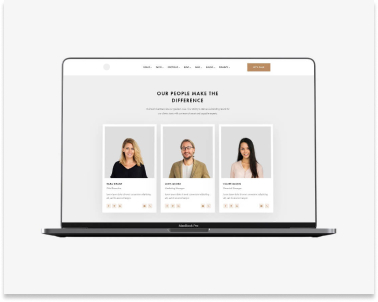
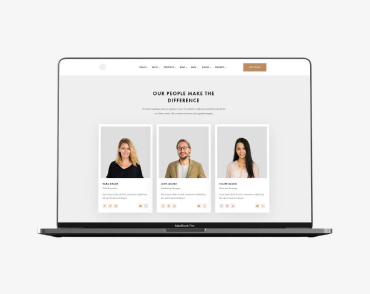
Добавляет позиционирование и геометрию всей разметке

diff --git a/portfolio.html b/portfolio.html
@@ -16,7 +16,7 @@
     
                 <ul class="navigation decoration">
                     <li class="item"><a href="/" class="link accent">Студия</a></li>
-                    <li class="item"><a href="" class="link accent">Портфолио</a></li>
+                    <li class="item"><a href="./portfolio.html" class="link accent">Портфолио</a></li>
                     <li class="item"><a href="" class="link accent">Контакты</a></li>
                 </ul>   
                 <address class="contacts">
@@ -27,90 +27,112 @@
         </div>
     </header>
     <main>
-        <section>
+        <section class="portfolio">
             <!-- Заголовок потом будет скрыт в css -->
-            <h1>Наши работы</h1>
-            <ul class="filter decoration">
-                <li><button type="button">Все</button></li>
-                <li><button type="button">Веб-сайты</button></li>
-                <li><button type="button">Приложения</button></li>
-                <li><button type="button">Дизайн</button></li>
-                <li><button type="button">Маркетинг</button></li>
-            </ul>
-            <ul class="works decoration">
-                <li>
-                    <a href="">
-                        <img src="./images/project1.jpg" alt="Веб-сайт технокряк" width="370">
-                        <h3 class="title">Технокряк</h3>
-                        <p class="text">Веб-сайт</p>
-                    </a>
-                </li>
-                <li>
-                    <a href="">
-                        <img src="./images/project2.jpg" alt="Дизайн постер New Orlean vs Golden Star" width="370">
-                        <h3 class="title">Постер New Orlean vs Golden Star</h3>
-                        <p class="text">Дизайн</p>
-                    </a>
-                </li>
-                <li>
-                    <a href="">
-                        <img src="./images/project3.jpg" alt="Приложение Рресторана Seafood" width="370">
-                        <h3 class="title">Ресторан Seafood</h3>
-                        <p class="text">Приложение</p>
-                    </a>
-                </li>
-                <li>
-                    <a href="">
-                        <img src="./images/project4.jpg" alt="Проект Prime" width="370">
-                        <h3 class="title">Проект Prime</h3>
-                        <p class="text">Маркетинг</p>
-                    </a>
-                </li>
-                <li>
-                    <a href="">
-                        <img src="./images/project5.jpg" alt="Приложение проекта Boxes" width="370">
-                        <h3 class="title">Проект Boxes</h3>
-                        <p class="text">Приложение</p>
-                    </a>
-                </li>
-                <li>
-                    <a href="">
-                        <img src="./images/project6.jpg" alt="Веб-сайт Inspiration has no Borders" width="370">
-                        <h3 class="title">Inspiration has no Borders</h3>
-                        <p class="text">Веб-сайт</p>
-                    </a>
-                </li>
-                <li>
-                    <a href="">
-                        <img src="./images/project7.jpg" alt="Дизайн издания Limited Edition" width="370">
-                        <h3 class="title">Издание Limited Edition</h3>
-                        <p class="text">Дизайн</p>
-                    </a>
-                </li>
-                <li>
-                    <a href="">
-                        <img src="./images/project8.jpg" alt="Проект LAB" width="370">
-                        <h3 class="title">Проект LAB</h3>
-                        <p class="text">Маркетинг</p>
-                    </a>
-                </li>
-                <li>
-                    <a href="">
-                        <img src="./images/project9.jpg" alt="Приложение Growing Business" width="370">
-                        <h3 class="title">Growing Business</h3>
-                        <p class="text">Приложение</p>
-                    </a>
-                </li>
-            </ul>
+            <div class="container">
+                <h1 class="portfolio-title">Наши работы</h1>
+                <ul class="filter decoration">
+                    <li class="item"><button type="button">Все</button></li>
+                    <li class="item"><button type="button">Веб-сайты</button></li>
+                    <li class="item"><button type="button">Приложения</button></li>
+                    <li class="item"><button type="button">Дизайн</button></li>
+                    <li class="item"><button type="button">Маркетинг</button></li>
+                </ul>
+                <ul class="works decoration">
+                    <li class="works-item">
+                        <a href="">
+                            <img src="./images/project1.jpg" alt="Веб-сайт технокряк" width="370">
+                            <div class="work-desc">
+                                <h3 class="title">Технокряк</h3>
+                                <p class="text">Веб-сайт</p>
+                            </div>    
+                        </a>
+                    </li>
+                    <li class="works-item">
+                        <a href="">
+                            <img src="./images/project2.jpg" alt="Дизайн постер New Orlean vs Golden Star" width="370">
+                            <div class="work-desc">
+                                <h3 class="title">Постер New Orlean vs Golden Star</h3>
+                                <p class="text">Дизайн</p>
+                            </div>
+                        </a>
+                    </li>
+                    <li class="works-item">
+                        <a href="">
+                            <img src="./images/project3.jpg" alt="Приложение Рресторана Seafood" width="370">
+                            <div class="work-desc">
+                                <h3 class="title">Ресторан Seafood</h3>
+                                <p class="text">Приложение</p>
+                            </div>
+                        </a>
+                    </li>
+                    <li class="works-item">
+                        <a href="">
+                            <img src="./images/project4.jpg" alt="Проект Prime" width="370">
+                            <div class="work-desc">
+                                <h3 class="title">Проект Prime</h3>
+                                <p class="text">Маркетинг</p>
+                            </div>
+                        </a>
+                    </li>
+                    <li class="works-item">
+                        <a href="">
+                            <img src="./images/project5.jpg" alt="Приложение проекта Boxes" width="370">
+                            <div class="work-desc">
+                                <h3 class="title">Проект Boxes</h3>
+                                <p class="text">Приложение</p>
+                            </div>
+                        </a>
+                    </li>
+                    <li class="works-item">
+                        <a href="">
+                            <img src="./images/project6.jpg" alt="Веб-сайт Inspiration has no Borders" width="370">
+                            <div class="work-desc">
+                                <h3 class="title">Inspiration has no Borders</h3>
+                                <p class="text">Веб-сайт</p>
+                            </div>
+                        </a>
+                    </li>
+                    <li class="works-item">
+                        <a href="">
+                            <img src="./images/project7.jpg" alt="Дизайн издания Limited Edition" width="370">
+                            <div class="work-desc">
+                                <h3 class="title">Издание Limited Edition</h3>
+                                <p class="text">Дизайн</p>
+                            </div>
+                        </a>
+                    </li>
+                    <li class="works-item">
+                        <a href="">
+                            <img src="./images/project8.jpg" alt="Проект LAB" width="370">
+                            <div class="work-desc">
+                                <h3 class="title">Проект LAB</h3>
+                                <p class="text">Маркетинг</p>
+                            </div>
+                        </a>
+                    </li>
+                    <li class="works-item">
+                        <a href="">
+                            <img src="./images/project9.jpg" alt="Приложение Growing Business" width="370">
+                            <div class="work-desc">
+                                <h3 class="title">Growing Business</h3>
+                                <p class="text">Приложение</p>
+                            </div>
+                        </a>
+                    </li>
+                </ul>
+            </div>
         </section>
     </main>
     <footer class="footer">
-        <a href="./index.html" class="logo inversion"><span>Web</span>Studio</a>
-        <address class="direction">
-            г. Киев, пр-т Леси Украинки, 26 <br>
-            <a href="mailto:info@example.com" class="link item">info@example.com</a>
-            <a href="tel:+380991111111" class="link item">+38 099 111 11 11</a>
-          </address>
+        <div class="container">
+            <a href="/" class="logo inversion"><span>Web</span>Studio</a>
+            <address class="direction">
+                г. Киев, пр-т Леси Украинки, 26 <br>
+                <a href="mailto:info@example.com" class="link item">info@example.com</a>
+                <a href="tel:+380991111111" class="link item">+38 099 111 11 11</a>
+            </address>
+        </div>
     </footer>
 </body>
 </html>

diff --git a/css/styles.css b/css/styles.css
@@ -21,9 +21,15 @@ body {
     font-family: 'Roboto', sans-serif;
     font-weight: 400;
     font-size: 14px;
-    line-height: 1.71;
+    line-height: 1.7;
     letter-spacing: 0.03em;
     color: var(--primary-text-color);
+}
+
+img {
+    display: block;
+    width: 100%;
+    height: auto;
 }
 
 .decoration {
@@ -51,7 +57,7 @@ a {
     font-family: Raleway, sans-serif;
     font-weight: 700;
     font-size: 26px;
-    line-height: 1.2;
+    line-height: 1.19;
     letter-spacing: 0.03em;
     color: var(--logo-color);
 }
@@ -261,10 +267,13 @@ a {
 /* Footer */
 
 .footer {
+    padding-top: 60px;
+    padding-bottom: 60px;
     background-color: var(--footer-background-color);
 }
 
 .direction {
+    margin-top: 20px;
     font-style: normal;
     color: var(--primary-white-color);
 }
@@ -273,16 +282,58 @@ a {
     color: var(--primary-white-color);
 }
 
+.footer .logo {
+    padding-top: 0;
+    padding-bottom: 0;
+    margin-right: 0;
+}
+
 .direction .link {
-    
+    margin-top: 9px;
+    display: block;
     color: var(--footer-text-color);
 }
 
+/* .direction .link + .link {
+    padding-top: 9px;
+} */
+
 /* Портфолио */
+
+.portfolio {
+    padding-top: 94px;
+    padding-bottom: 94px;
+}
+
+.portfolio-title {
+    display: none;
+}
+
+.filter {
+    display: flex;
+    justify-content: center;
+    padding-left: 0;
+    margin-top: 0;
+    margin-bottom: 34px;
+}
+
+.filter .item + .item {
+    margin-left: 8px;
+}
+
 .filter .item {
-    
     color: var(--title-text-color);
     background-color: var(--secondary-background-color);
+}
+
+.portfolio button {
+    display: block;
+    padding: 6px 22px;
+    border-radius: 4px;
+    font-size: 16px;
+    font-weight: 500;
+    line-height: 1.6;
+    border: 0;
 }
 
 .filter button:hover,
@@ -296,6 +347,8 @@ a {
     line-height: 2;
     letter-spacing: 0.06em;
     color: var(--title-text-color);
+    margin-top: 0;
+    margin-bottom: 4px;
 }
 
 .works .text {
@@ -303,4 +356,22 @@ a {
     line-height: 30px;             
     letter-spacing: 1.9;
     color: var(--primary-text-color);
+    margin-top: 0;
+    margin-bottom: 0;
+}
+
+.portfolio .works {
+    display: flex;
+    flex-wrap: wrap;
+    padding-left: 0;
+    margin: -15px;
+}
+
+.works-item {
+    margin: 15px;
+    /* width: calc((100% - 2 * 30px) / 3); */
+}
+
+.work-desc {
+    padding: 20px 24px;
 }

diff --git a/index.html b/index.html
@@ -16,7 +16,7 @@
     
                 <ul class="navigation decoration">
                     <li class="item"><a href="/" class="link accent">Студия</a></li>
-                    <li class="item"><a href="" class="link accent">Портфолио</a></li>
+                    <li class="item"><a href="./portfolio.html" class="link accent">Портфолио</a></li>
                     <li class="item"><a href="" class="link accent">Контакты</a></li>
                 </ul>   
                 <address class="contacts">
@@ -102,12 +102,14 @@
         </section>
     </main>
     <footer class="footer">
-        <a href="/" class="logo inversion"><span>Web</span>Studio</a>
-        <address class="direction">
-            г. Киев, пр-т Леси Украинки, 26 <br>
-            <a href="mailto:info@example.com" class="link item">info@example.com</a>
-            <a href="tel:+380991111111" class="link item">+38 099 111 11 11</a>
-          </address>
+        <div class="container">
+            <a href="/" class="logo inversion"><span>Web</span>Studio</a>
+            <address class="direction">
+                г. Киев, пр-т Леси Украинки, 26 <br>
+                <a href="mailto:info@example.com" class="link item">info@example.com</a>
+                <a href="tel:+380991111111" class="link item">+38 099 111 11 11</a>
+            </address>
+        </div>
     </footer>
 </body>
 </html>
